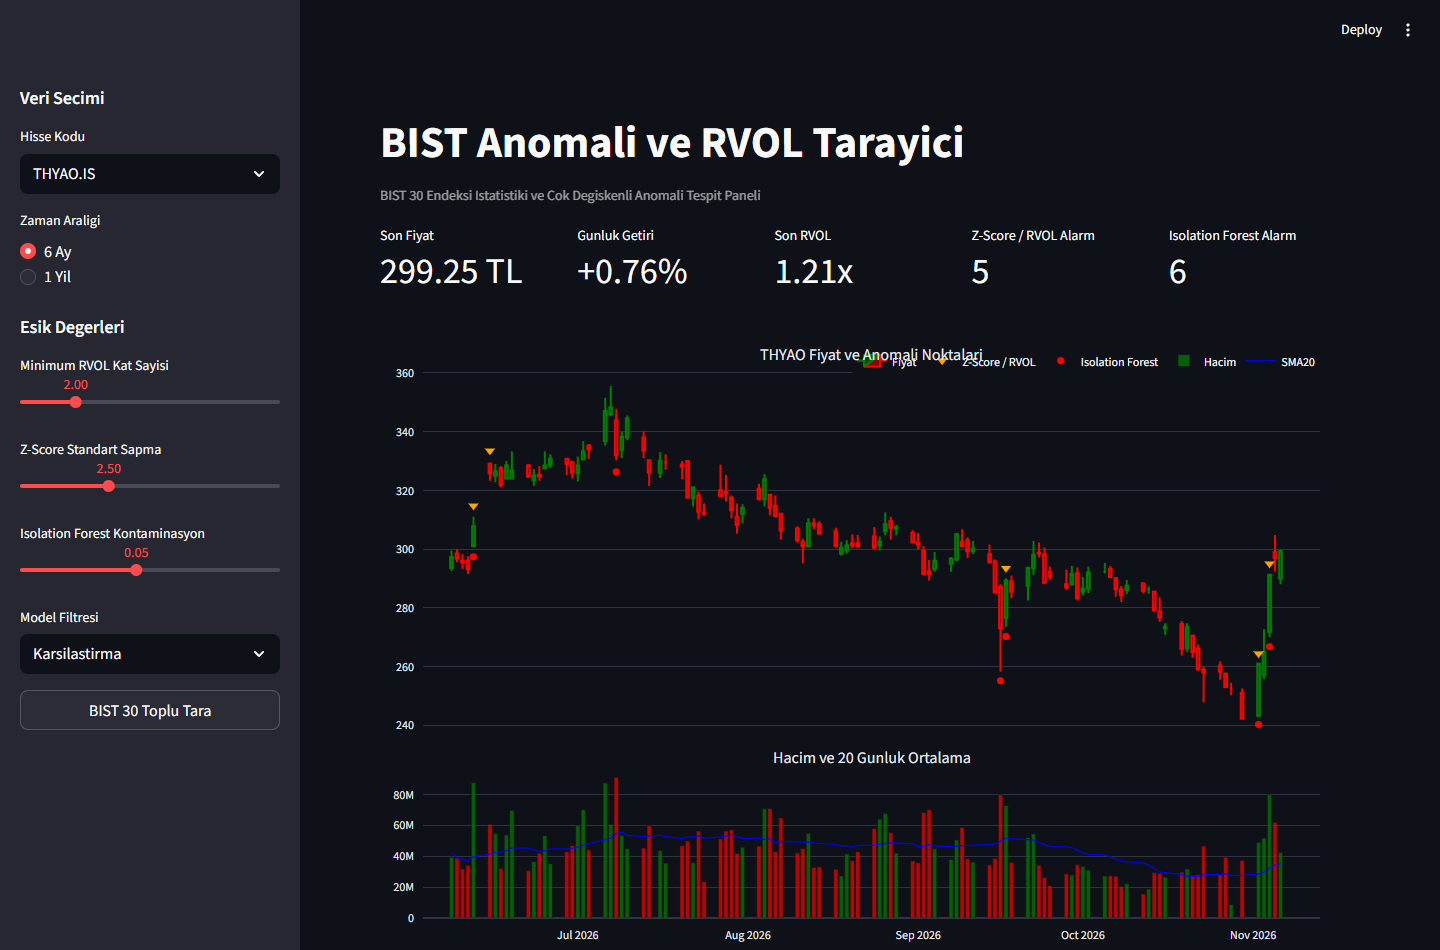
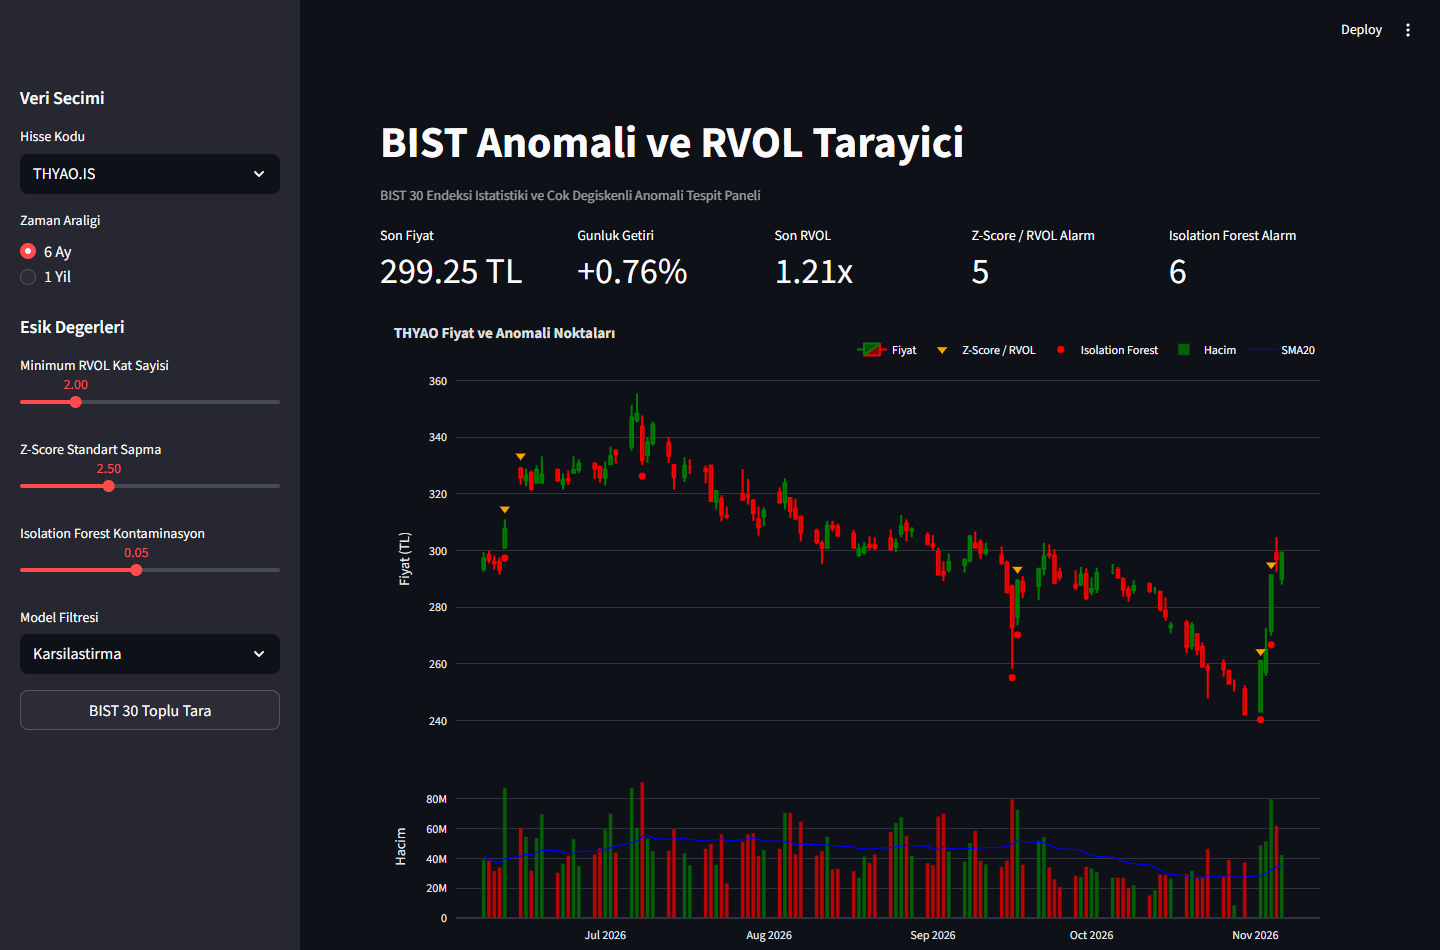
fix: resolve chart title and legend overlap, update dashboard screenshot

diff --git a/app.py b/app.py
@@ -85,9 +85,8 @@ def build_figure(df: pd.DataFrame, ticker: str, mode: str) -> go.Figure:
     fig = make_subplots(
         rows=2, cols=1,
         shared_xaxes=True,
-        vertical_spacing=0.04,
-        row_heights=[0.72, 0.28],
-        subplot_titles=(f"{ticker} Fiyat ve Anomali Noktalari", "Hacim ve 20 Gunluk Ortalama")
+        vertical_spacing=0.06,
+        row_heights=[0.72, 0.28]
     )
 
     fig.add_trace(
@@ -161,12 +160,27 @@ def build_figure(df: pd.DataFrame, ticker: str, mode: str) -> go.Figure:
     )
 
     fig.update_layout(
+        title=dict(
+            text=f"<b>{ticker}</b> Fiyat ve Anomali Noktaları",
+            x=0.01,
+            y=0.98,
+            font=dict(size=15, color="#E0E0E0")
+        ),
         height=640,
         xaxis_rangeslider_visible=False,
         template="plotly_dark",
-        margin=dict(l=30, r=30, t=35, b=25),
-        legend=dict(orientation="h", yanchor="bottom", y=1.02, xanchor="right", x=1)
+        margin=dict(l=30, r=30, t=60, b=25),
+        legend=dict(
+            orientation="h",
+            yanchor="bottom",
+            y=1.02,
+            xanchor="right",
+            x=1,
+            font=dict(size=12)
+        )
     )
+    fig.update_yaxes(title_text="Fiyat (TL)", row=1, col=1)
+    fig.update_yaxes(title_text="Hacim", row=2, col=1)
     return fig
 
 def scan_bist30(z_thr: float, cont: float, rvol_thr: float) -> pd.DataFrame:
